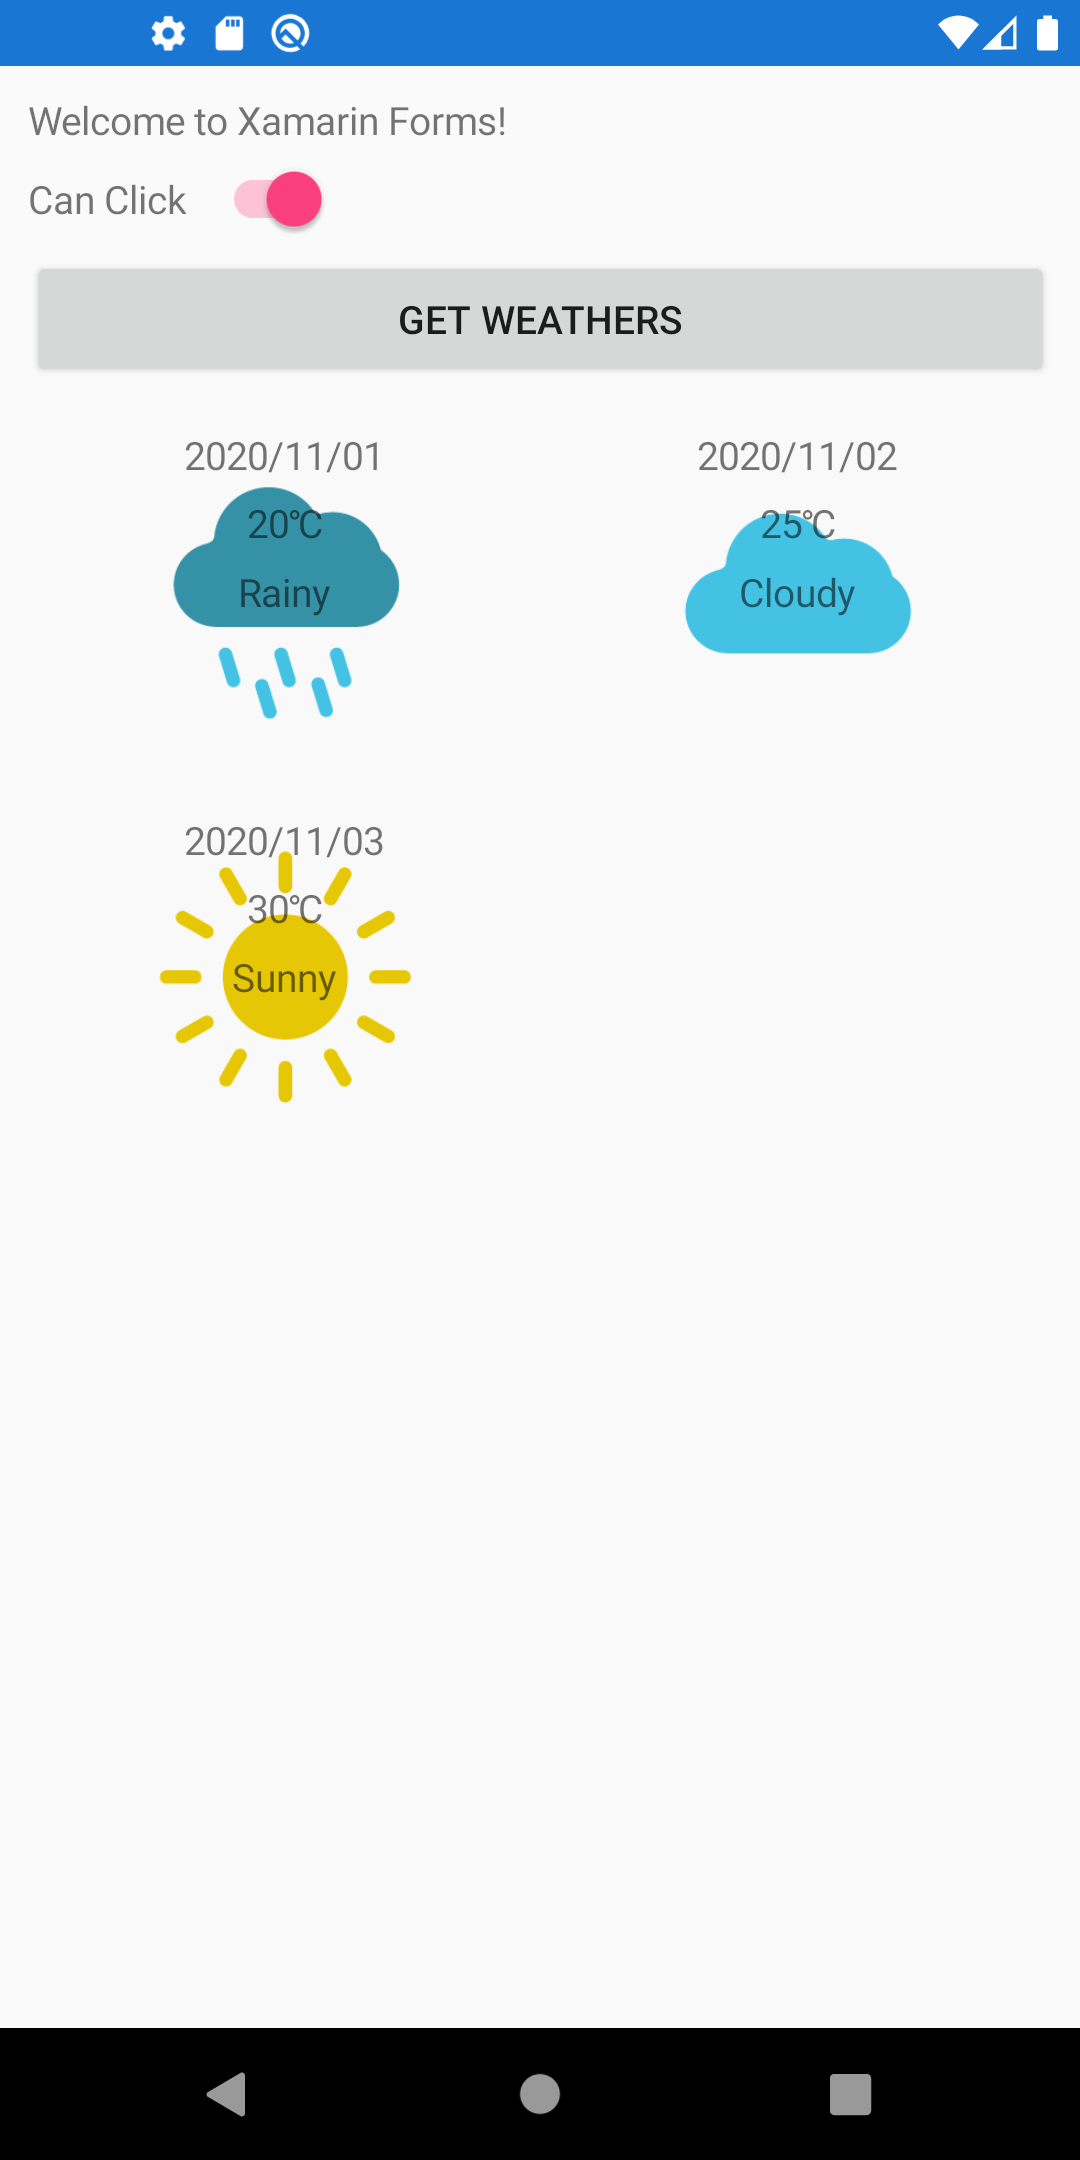
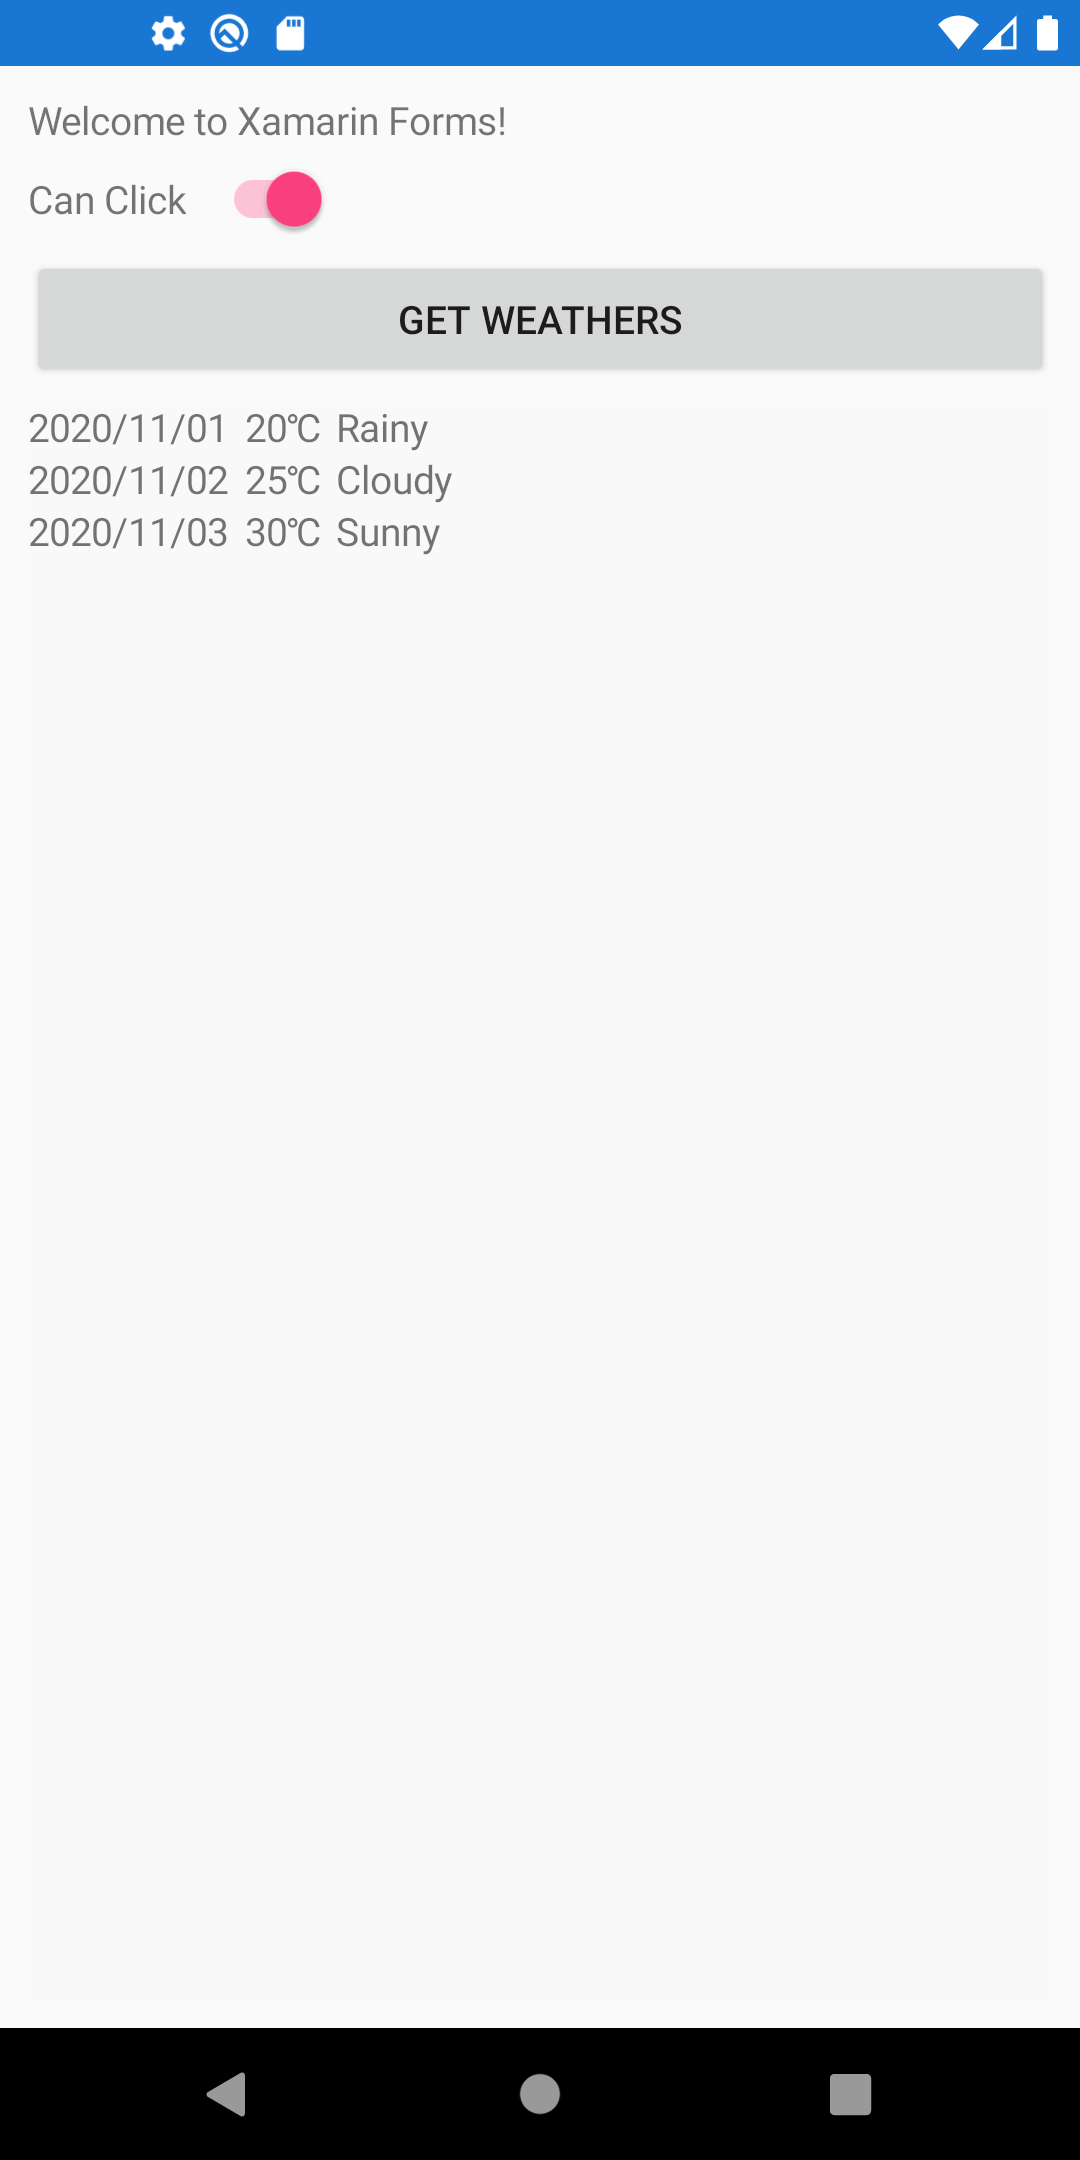
docs: Update code-behind document

diff --git a/docs/HandsOn.md b/docs/HandsOn.md
@@ -216,43 +216,32 @@ Xamarin.Forms プロジェクトを右クリックから「NuGet パッケージ
     <Label Text="Welcome to Xamarin Forms!" />
     <StackLayout Orientation="Horizontal">
         <Label VerticalTextAlignment="Center" Text="Can Click" />
-        <Switch x:Name="canClickSwitch" IsToggled="True" Toggled="SwitchOnToggled"/>
+        <Switch x:Name="canClickSwitch"
+                IsToggled="True"
+                Toggled="SwitchOnToggled" />
     </StackLayout>
-    <Button x:Name="button" Clicked="GetWeathersButtonOnClicked" Text="Get Weathers" />
+    <Button x:Name="button"
+            Clicked="GetWeathersButtonOnClicked"
+            Text="Get Weathers" />
 
     <RefreshView x:Name="refreshView" Refreshing="PullToRefreshing">
         <CollectionView x:Name="collectionView"
-                        ItemsLayout="VerticalGrid, 2"
-                        ItemsSource="{Binding }"
+                        ItemsLayout="VerticalList"
+                        ItemsSource="{Binding}"
                         SelectionChanged="OnCollectionViewSelectionChanged"
                         SelectionMode="Single">
             <CollectionView.ItemTemplate>
                 <DataTemplate>
-                    <Grid Padding="10">
-                        <Grid.RowDefinitions>
-                            <RowDefinition Height="Auto" />
-                            <RowDefinition Height="Auto" />
-                            <RowDefinition Height="Auto" />
-                        </Grid.RowDefinitions>
-                        <Image Grid.Row="0"
-                               Grid.RowSpan="3"
-                               WidthRequest="120"
-                               HeightRequest="120"
-                               Source="{Binding Summary, StringFormat='{0}.png'}" />
-                        <Label Grid.Row="0"
-                               HorizontalTextAlignment="Center"
-                               Text="{Binding Date, StringFormat='{}{0:yyyy/MM/dd}'}" />
-                        <Label Grid.Row="1"
-                               HorizontalTextAlignment="Center"
-                               Text="{Binding Temperature, StringFormat='{0}℃'}" />
-                        <Label Grid.Row="2"
-                               HorizontalTextAlignment="Center"
-                               Text="{Binding Summary}" />
-                    </Grid>
+                    <StackLayout Orientation="Horizontal">
+                        <Label Text="{Binding Date, StringFormat='{}{0:yyyy/MM/dd}'}" />
+                        <Label Text="{Binding Temperature, StringFormat='{0}℃'}" />
+                        <Label Text="{Binding Summary}" />
+                    </StackLayout>
                 </DataTemplate>
             </CollectionView.ItemTemplate>
         </CollectionView>
     </RefreshView>
+        
 </StackLayout>
 ```
 
